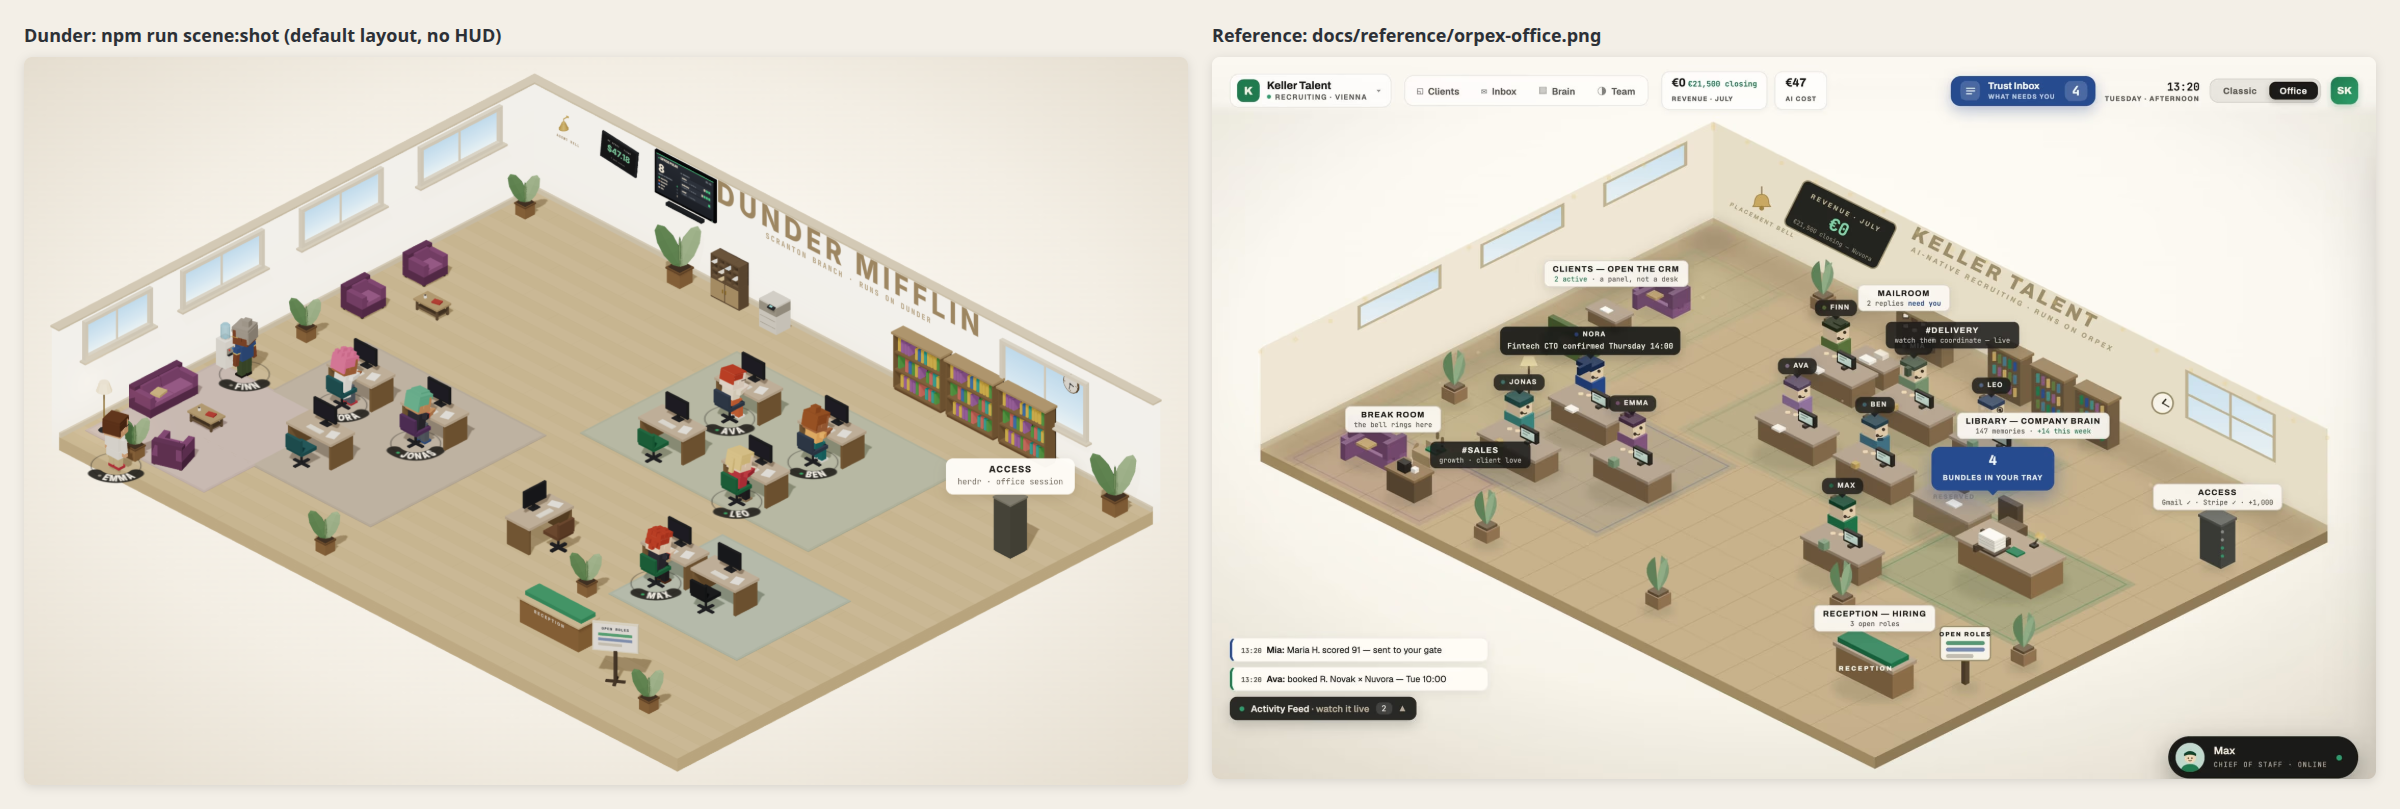
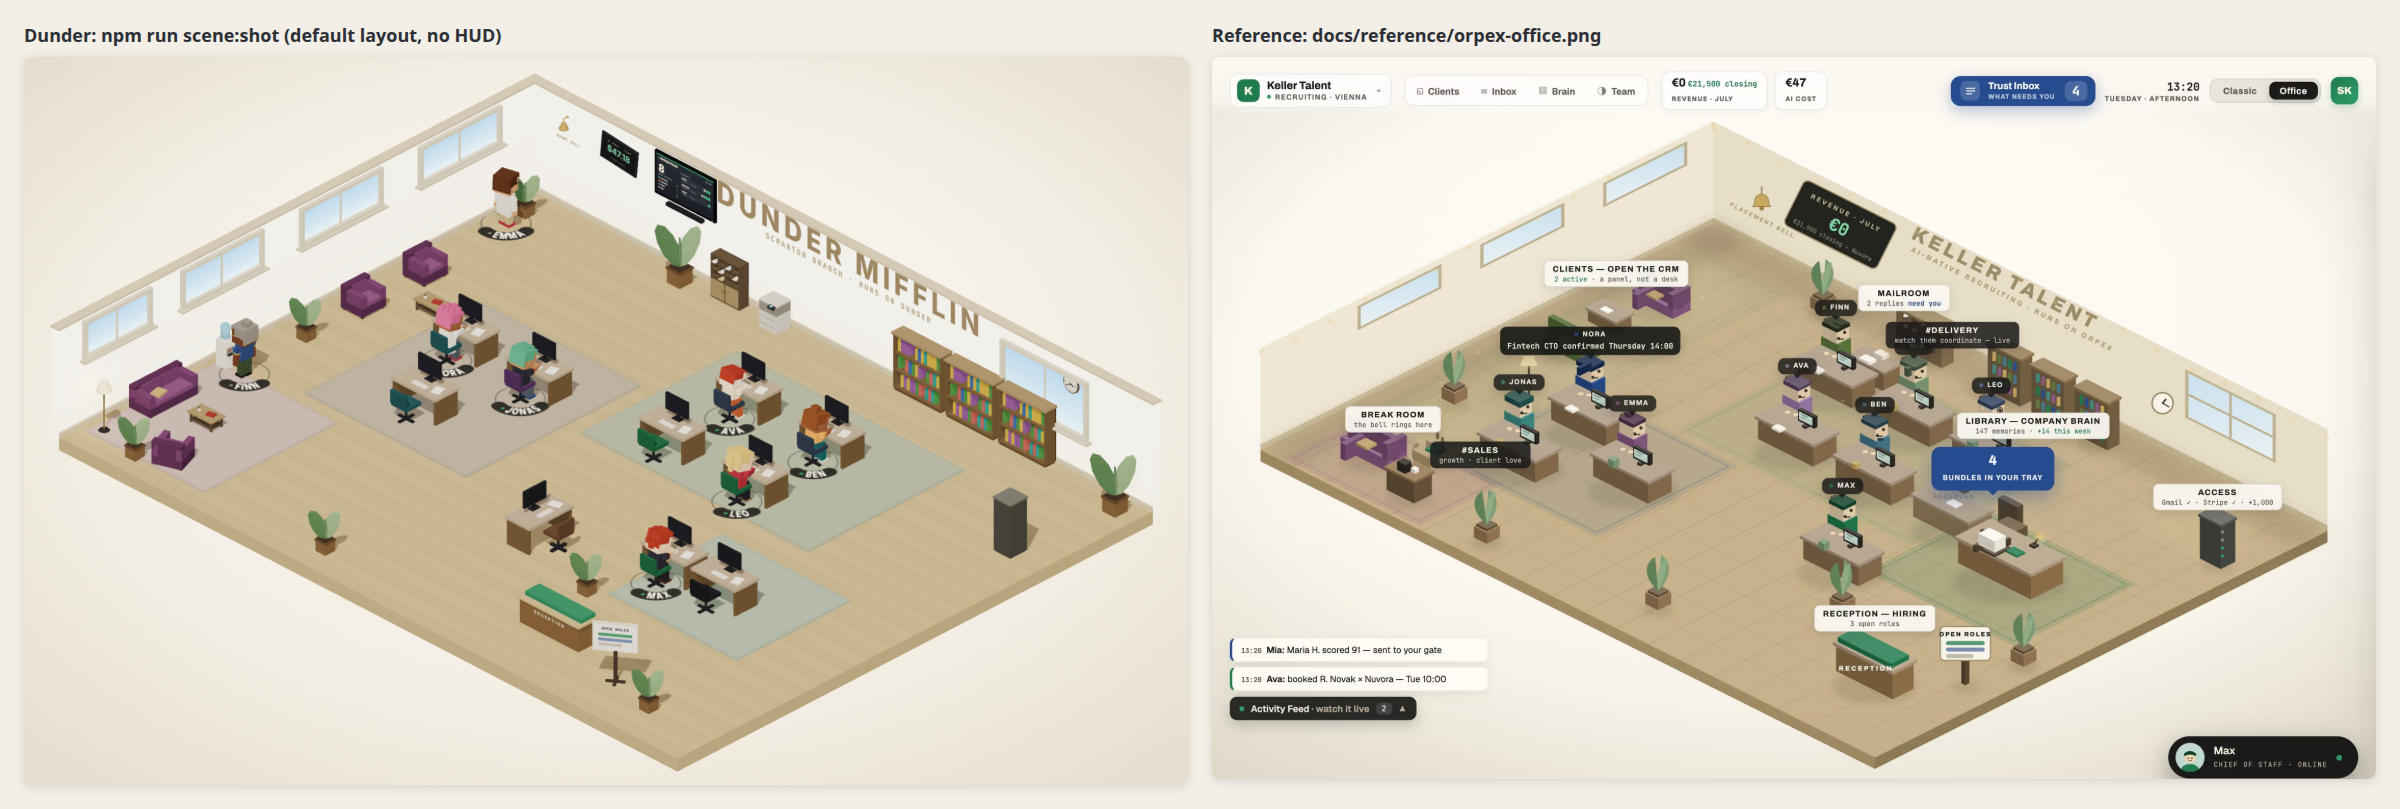
office-miz: sales floor 30% closer to the TV, ACCESS callout dropped; marker-gated layout migration

diff --git a/src/shared/layout/default-layout.ts b/src/shared/layout/default-layout.ts
@@ -1,4 +1,10 @@
-import { type Layout, layoutSchema, type Zone } from "./schema";
+import { type Callout, type Desk, type Layout, layoutSchema, type Zone } from "./schema";
+
+/** Marker of the one-time move of the sales floor toward the TV (office-miz). */
+const SALES_NEAR_TV = "sales-near-tv";
+
+/** The sales floor's rug, a little narrower than before so it stays clear of the clients lounge. */
+const SALES_RUG = { center: { x: -6.2, z: -0.6 }, width: 6.8, depth: 7.4, color: "#b9a58a" };
 
 /**
  * The starter office, modelled on docs/reference/orpex-office.png: a long
@@ -30,7 +36,8 @@ export const DEFAULT_LAYOUT: Layout = layoutSchema.parse({
 			id: "sales",
 			title: "#SALES",
 			workspaceLabel: "sales",
-			rug: { center: { x: -6.6, z: 3.4 }, width: 7.6, depth: 7.4, color: "#b9a58a" },
+			// 30% closer to the TV (x -6.6, z -10) than it first stood, clear of the break-room rug.
+			rug: SALES_RUG,
 		},
 		{
 			id: "delivery",
@@ -55,21 +62,21 @@ export const DEFAULT_LAYOUT: Layout = layoutSchema.parse({
 	desks: [
 		{
 			id: "sales-1",
-			position: { x: -8.3, z: 2 },
+			position: { x: -7.9, z: -2 },
 			rotation: 0,
 			zoneId: "sales",
 			chairColor: "#2f5d63",
 		},
 		{
 			id: "sales-2",
-			position: { x: -5.2, z: 2 },
+			position: { x: -4.8, z: -2 },
 			rotation: 0,
 			zoneId: "sales",
 			chairColor: "#5d3f6a",
 		},
 		{
 			id: "sales-3",
-			position: { x: -6.8, z: 5.2 },
+			position: { x: -6.4, z: 1.2 },
 			rotation: 0,
 			zoneId: "sales",
 			chairColor: "#2f5d63",
@@ -158,15 +165,9 @@ export const DEFAULT_LAYOUT: Layout = layoutSchema.parse({
 		{ id: "plant-7", kind: "tall-plant", position: { x: 12.2, z: -9.2 } },
 		{ id: "plant-8", kind: "plant", position: { x: -12.2, z: -8.8 } },
 	],
-	callouts: [
-		{
-			id: "access",
-			title: "ACCESS",
-			subtitle: "herdr · office session",
-			position: { x: 11.6, z: -5.4 },
-			height: 2.6,
-		},
-	],
+	callouts: [],
+	// The default is already in the state every one-time migration produces.
+	migrations: [SALES_NEAR_TV],
 });
 
 /** The default floor before it was matched to the reference (office-vl9.6). */
@@ -197,15 +198,98 @@ function labelOnlyZones(layout: Layout): ReadonlySet<Zone> {
 	return new Set(layout.zones.filter((zone) => !zone.rug && !seated.has(zone.id)));
 }
 
+type Rug = NonNullable<Zone["rug"]>;
+
+/** Where the sales floor and its desks stood before office-miz moved them toward the TV. */
+const FORMER_SALES_RUG = { center: { x: -6.6, z: 3.4 }, width: 7.6, depth: 7.4 } as const;
+const FORMER_SALES_DESKS: Readonly<Record<string, { x: number; z: number }>> = {
+	"sales-1": { x: -8.3, z: 2 },
+	"sales-2": { x: -5.2, z: 2 },
+	"sales-3": { x: -6.8, z: 5.2 },
+};
+
+/** The server rack's callout as shipped; nobody knew what it was for (office-miz). */
+const FORMER_ACCESS = {
+	id: "access",
+	title: "ACCESS",
+	subtitle: "herdr · office session",
+	position: { x: 11.6, z: -5.4 },
+} as const;
+
+function untouchedRug(rug: Rug): boolean {
+	const former = FORMER_SALES_RUG;
+	return (
+		rug.center.x === former.center.x &&
+		rug.center.z === former.center.z &&
+		rug.width === former.width &&
+		rug.depth === former.depth
+	);
+}
+
+function untouchedDesk(desk: Desk): boolean {
+	const former = FORMER_SALES_DESKS[desk.id];
+	return former !== undefined && desk.position.x === former.x && desk.position.z === former.z;
+}
+
+/**
+ * The sales zone and its desks at their new defaults, if the user never moved,
+ * resized or added to them; otherwise the layout is theirs and stays.
+ */
+function moveSalesTowardTv(layout: Layout): Pick<Layout, "zones" | "desks"> {
+	const sales = layout.zones.find((zone) => zone.id === "sales");
+	const rug = sales?.rug;
+	const members = layout.desks.filter((desk) => desk.zoneId === "sales");
+	if (!rug || !untouchedRug(rug) || !members.every(untouchedDesk)) return layout;
+	const moved: Rug = { ...SALES_RUG, color: rug.color };
+	const defaults = new Map(DEFAULT_LAYOUT.desks.map((desk) => [desk.id, desk.position]));
+	return {
+		zones: layout.zones.map((zone) => (zone === sales ? { ...zone, rug: moved } : zone)),
+		desks: layout.desks.map((desk) => {
+			const position = desk.zoneId === "sales" ? defaults.get(desk.id) : undefined;
+			return position ? { ...desk, position } : desk;
+		}),
+	};
+}
+
+function untouchedAccess(callout: Callout): boolean {
+	const former = FORMER_ACCESS;
+	return (
+		callout.id === former.id &&
+		callout.title === former.title &&
+		callout.subtitle === former.subtitle &&
+		callout.position.x === former.position.x &&
+		callout.position.z === former.position.z
+	);
+}
+
+/**
+ * office-miz, once per layout: the sales floor moves toward the TV and off the
+ * break-room rug, and the server rack's ACCESS callout goes, each only if the
+ * user left it as it was.
+ */
+function salesNearTv(layout: Layout): Layout {
+	if (layout.migrations.includes(SALES_NEAR_TV)) return layout;
+	return {
+		...layout,
+		...moveSalesTowardTv(layout),
+		callouts: layout.callouts.filter((callout) => !untouchedAccess(callout)),
+		migrations: [...layout.migrations, SALES_NEAR_TV],
+	};
+}
+
 /**
  * Bring a saved layout up to date with changed defaults. Companies copy the
  * default layout when created, so a value still on its former default was
  * never chosen by anyone: it moves to the current default on its own (floor
- * colour, wall height). Any other value is kept.
+ * colour, wall height). Any other value is kept. Moves that must not undo a
+ * later edit run once, recorded in `layout.migrations`.
  */
 export function migrateLayout(layout: Layout): Layout {
 	const room = migrateRoom(layout.room);
 	const dropped = labelOnlyZones(layout);
-	if (room === layout.room && dropped.size === 0) return layout;
-	return { ...layout, room, zones: layout.zones.filter((zone) => !dropped.has(zone)) };
+	const current =
+		room === layout.room && dropped.size === 0
+			? layout
+			: { ...layout, room, zones: layout.zones.filter((zone) => !dropped.has(zone)) };
+	return salesNearTv(current);
 }

diff --git a/src/main/companies/store.test.ts b/src/main/companies/store.test.ts
@@ -127,3 +127,81 @@ describe("company store", () => {
 		expect(loaded?.layout.zones).toEqual([sales, { id: "annex", title: "ANNEX" }]);
 	});
 });
+
+describe("sales floor move toward the TV (office-miz)", () => {
+	const FORMER_DESKS: Record<string, { x: number; z: number }> = {
+		"sales-1": { x: -8.3, z: 2 },
+		"sales-2": { x: -5.2, z: 2 },
+		"sales-3": { x: -6.8, z: 5.2 },
+	};
+	const ACCESS = {
+		id: "access",
+		title: "ACCESS",
+		subtitle: "herdr · office session",
+		position: { x: 11.6, z: -5.4 },
+		height: 2.6,
+		tone: "light",
+	} as const;
+
+	type SavedLayout = Omit<Company["layout"], "migrations"> & { migrations?: string[] };
+
+	/** A layout as saved before office-miz: old sales spots, the ACCESS callout, no markers. */
+	function formerLayout(): SavedLayout {
+		const { migrations: _, ...layout } = seedCompany("acme", "Acme", "", NOW).layout;
+		return {
+			...layout,
+			zones: layout.zones.map((zone) =>
+				zone.id === "sales" && zone.rug
+					? { ...zone, rug: { ...zone.rug, center: { x: -6.6, z: 3.4 }, width: 7.6 } }
+					: zone,
+			),
+			desks: layout.desks.map((desk) => {
+				const position = FORMER_DESKS[desk.id];
+				return position ? { ...desk, position } : desk;
+			}),
+			callouts: [ACCESS],
+		};
+	}
+
+	async function load(layout: SavedLayout): Promise<Company["layout"] | undefined> {
+		const company = { ...seedCompany("acme", "Acme", "", NOW), layout };
+		await writeFile(join(dir, "acme.json"), JSON.stringify(company));
+		const [loaded] = await loadCompanies(dir);
+		return loaded?.layout;
+	}
+
+	const salesOf = (layout: SavedLayout | undefined) => ({
+		rug: layout?.zones.find((zone) => zone.id === "sales")?.rug,
+		desks: layout?.desks.filter((desk) => desk.zoneId === "sales").map((desk) => desk.position),
+	});
+
+	it("moves a sales floor left at its former default and drops the default ACCESS callout", async () => {
+		const layout = await load(formerLayout());
+		expect(salesOf(layout)).toEqual(salesOf(DEFAULT_LAYOUT));
+		expect(layout?.callouts).toEqual([]);
+		expect(layout?.migrations).toEqual(DEFAULT_LAYOUT.migrations);
+	});
+
+	it("leaves a sales floor the user changed, and an ACCESS callout they moved", async () => {
+		const former = formerLayout();
+		const edited: SavedLayout = {
+			...former,
+			// One desk nudged is enough to make the whole floor theirs.
+			desks: former.desks.map((desk) =>
+				desk.id === "sales-2" ? { ...desk, position: { x: -5, z: 2 } } : desk,
+			),
+			callouts: [{ ...ACCESS, position: { x: 2, z: 2 } }],
+		};
+		const layout = await load(edited);
+		expect(salesOf(layout)).toEqual(salesOf(edited));
+		expect(layout?.callouts).toEqual(edited.callouts);
+		expect(layout?.migrations).toEqual(DEFAULT_LAYOUT.migrations);
+	});
+
+	it("runs once: a floor moved back after the migration stays where the user put it", async () => {
+		const former = formerLayout();
+		const layout = await load({ ...former, migrations: DEFAULT_LAYOUT.migrations });
+		expect(salesOf(layout)).toEqual(salesOf(former));
+		expect(layout?.callouts).toEqual([ACCESS]);
+	});
+});

diff --git a/src/shared/layout/schema.ts b/src/shared/layout/schema.ts
@@ -114,5 +114,11 @@ export const layoutSchema = z.object({
 	desks: z.array(deskSchema),
 	decor: z.array(decorSchema),
 	callouts: z.array(calloutSchema),
+	/**
+	 * One-time migrations already applied (see `migrateLayout`), so a change the
+	 * user undid after it ran is never re-applied. Layouts saved before the
+	 * first marked migration load with none.
+	 */
+	migrations: z.array(z.string()).default([]),
 });
 export type Layout = z.infer<typeof layoutSchema>;
